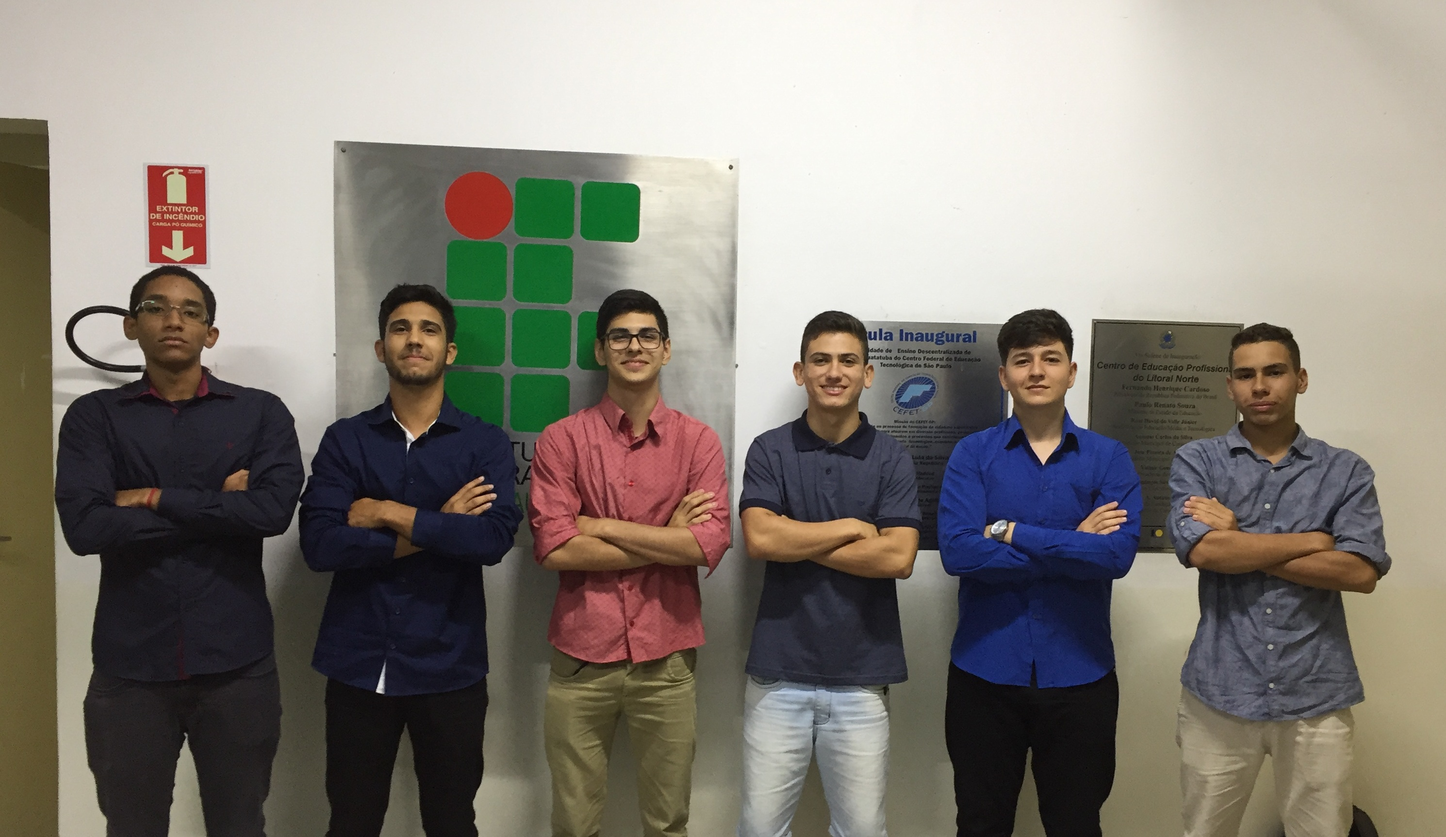
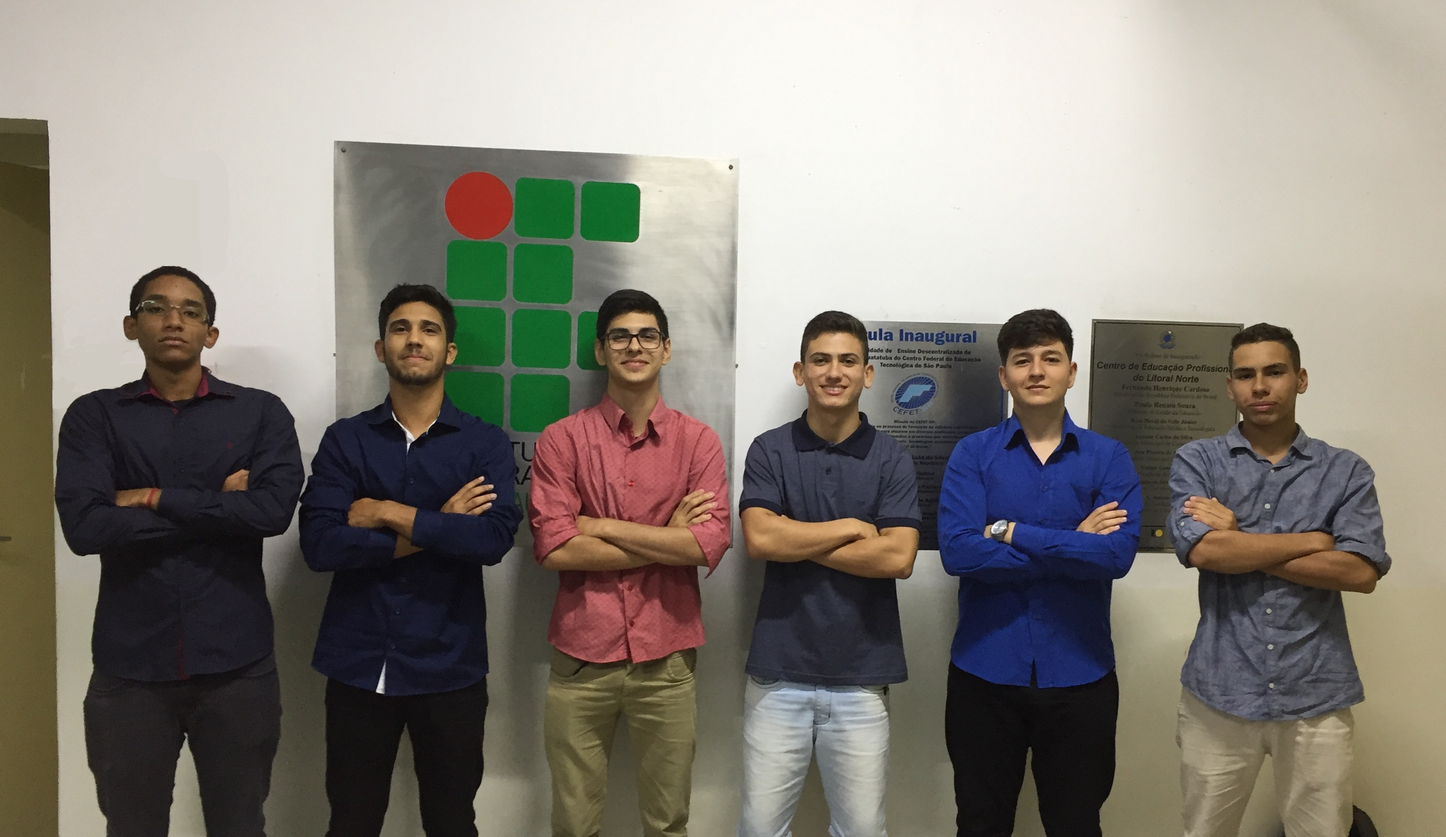
foto do grupo sem o extintor

Changed region(s): [[0.0936, 0.1845, 0.156, 0.3382], [0.0312, 0.3689, 0.0936, 0.4919]]

diff --git a/sobre.php b/sobre.php
@@ -12,7 +12,7 @@
                 <div class="col s12">
                     <h3 class="center-align">Quem Somos</h3>
                     <p class="flow-text center-align">Nosso site foi criado em 2018, no Instituto Federal de Educação, Ciência e Tecnologia de São Paulo para o projeto de conclusão do 3°Modulo de Informática para Internet, com o intuito de ajudar a comunidade.
-                    O Site é voltado para que as pessoas que perderam animais ou queiram adotar, possam encontrar um animal para adotar ou seu animal perdido.</p>
+                    O Site é voltado para as pessoas que perderam animais, queiram adotar e que queiram doar.</p>
                 </div>
             </div>
             <div class="row">
